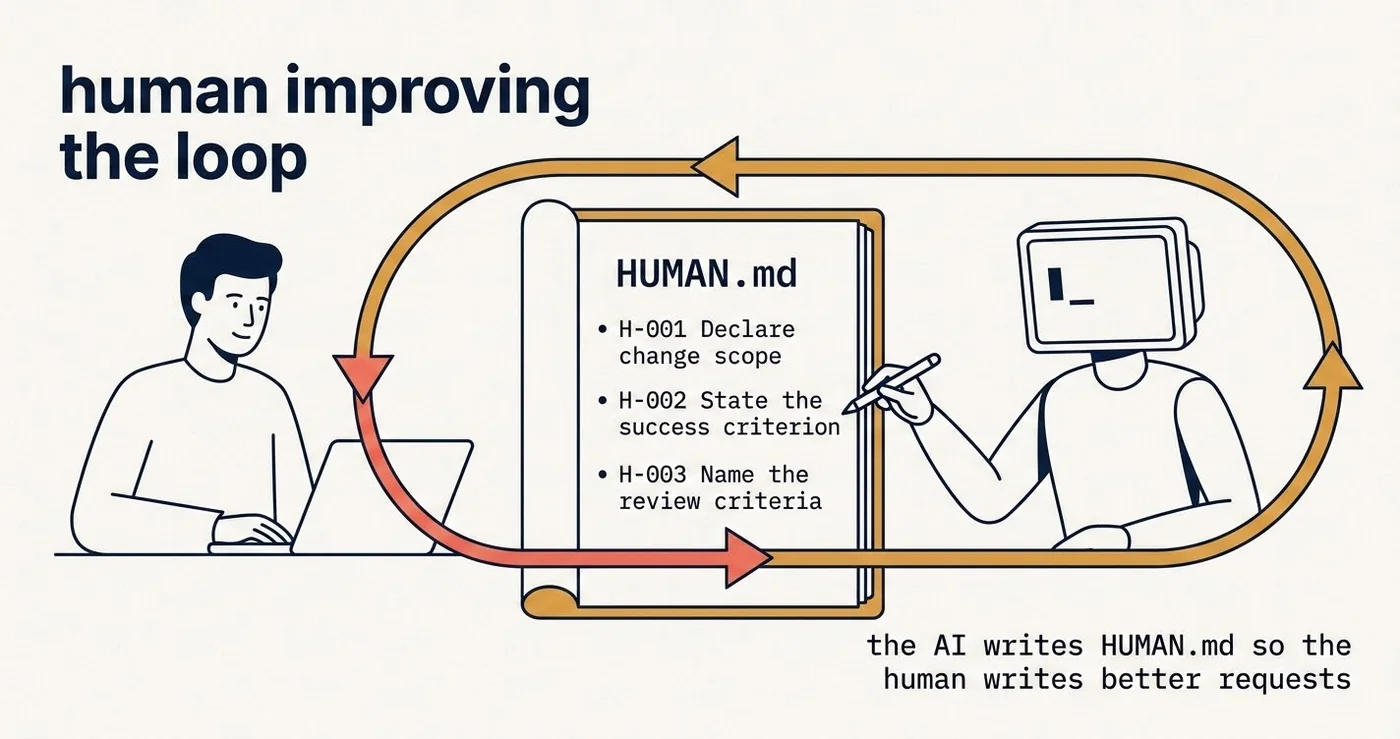
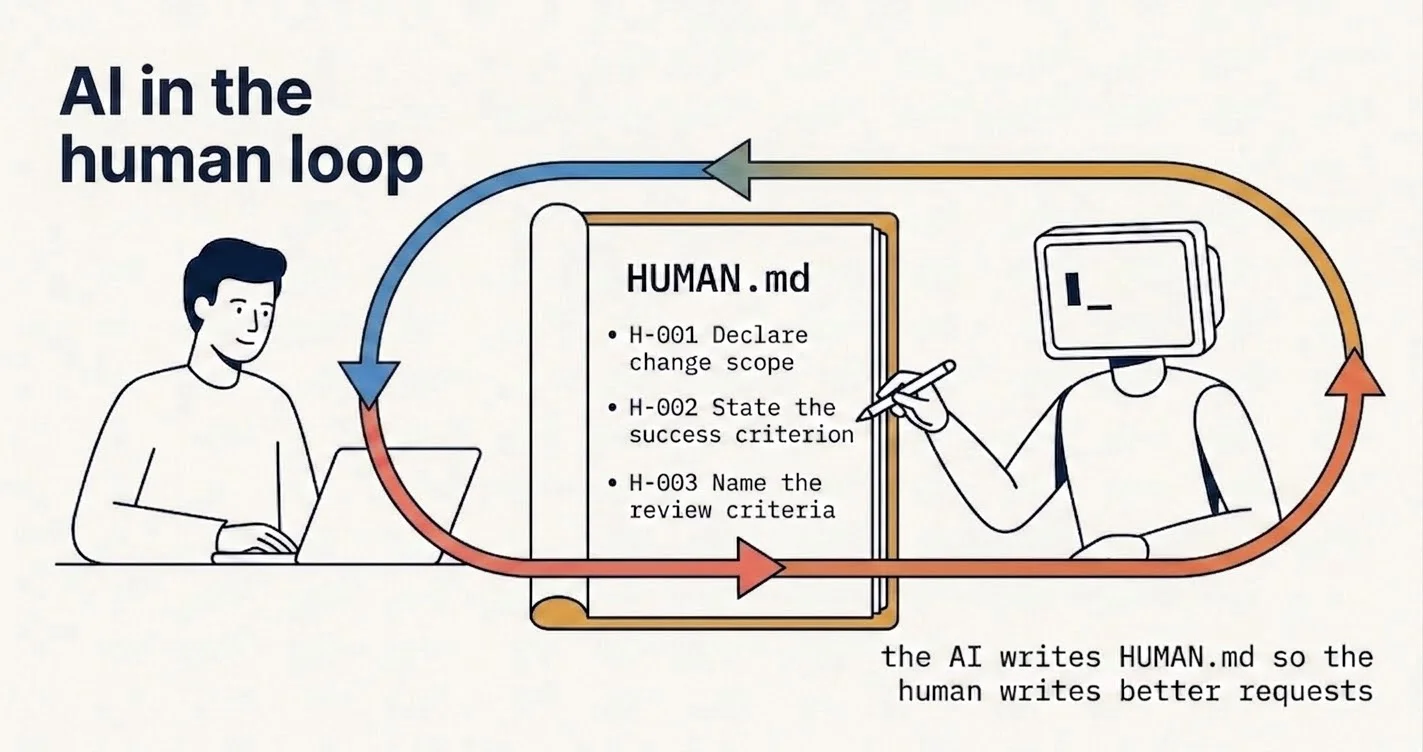
AI in the human loop

diff --git a/README.md b/README.md
@@ -1,4 +1,4 @@
-# Human improving the loop
+# AI in the human loop
 
 ![A human at a laptop on the left and an AI agent on the right, with an open HUMAN.md notebook listing entries H-001, H-002, H-003 between them. A coral arrow loops from the AI back through the notebook to the human, showing that the AI writes feedback into HUMAN.md so the human can write better requests.](docs/images/hero.webp)
 
